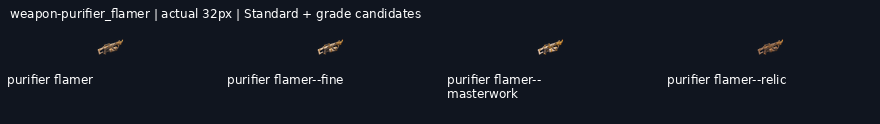
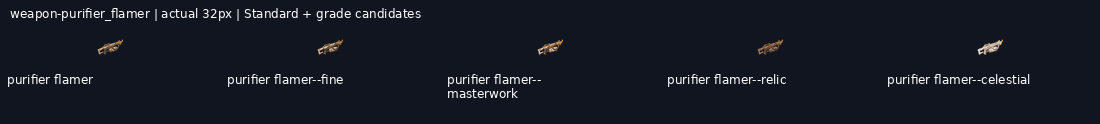
Deliver weapon-purifier_flamer--celestial review candidate with native provenance and exports

diff --git a/art/briefs/prompts-2026-11-19/PRODUCTION-STATUS.md b/art/briefs/prompts-2026-11-19/PRODUCTION-STATUS.md
@@ -1,12 +1,12 @@
 # Current sole-artist production
 
-**558/871 (64.1%) selected review candidates.** Last delivery: `weapon-purifier_flamer--relic`. Imports, exports, components, rejected attempts and archived alternatives add0. Artistic/implementation approvals remainfalse.
+**559/871 (64.2%) selected review candidates.** Last delivery: `weapon-purifier_flamer--celestial`. Imports, exports, components, rejected attempts and archived alternatives add0. Artistic/implementation approvals remainfalse.
 
 | Requested work | Selected | Total |
 | --- | ---: | ---: |
 | icons_tiles | 88 | 88 |
 | new_repaint_standards | 53 | 104 |
-| grades | 403 | 656 |
+| grades | 404 | 656 |
 | uniques | 14 | 23 |
 
 Active run sole-20261121-0109, branch art/2026-11-20-reset-continuation. Shared live ledger: https://github.com/leonpentastorm/Project-Heaven-Cry/issues/3 . Current renewed grade lane: art/_archive/gear/2026-11-21-retry-continuation/START-HERE.md. All earlier512 candidate drawings were integrated before this lane; native bytes, cleaned imports, source metadata and all prior failures preserved.

diff --git a/art/_archive/gear/2026-11-20-reset-continuation/START-HERE.md b/art/_archive/gear/2026-11-20-reset-continuation/START-HERE.md
@@ -1,6 +1,6 @@
 # Current21November continuation
 
-558/871 selected. Active lane art/_archive/gear/2026-11-21-retry-continuation/START-HERE.md, run sole-20261121-0109. User explicitly authorized renewed fictional-art attempts; all priorart/errors preserved. Read liveissue3+allcomments and remote deliveries before everyrender. RunningScript completed with original marks unchanged. All approvalsfalse;0.30 holdsremain. See PRODUCTION-STATUS.md and REMAINING-WORK.json for the latest exact count.
+559/871 selected. Active lane art/_archive/gear/2026-11-21-retry-continuation/START-HERE.md, run sole-20261121-0109. User explicitly authorized renewed fictional-art attempts; all priorart/errors preserved. Read liveissue3+allcomments and remote deliveries before everyrender. RunningScript completed with original marks unchanged. All approvalsfalse;0.30 holdsremain. See PRODUCTION-STATUS.md and REMAINING-WORK.json for the latest exact count.
 
 # Historical20November handoff
 

diff --git a/art/_archive/gear/2026-11-21-retry-continuation/HANDOFF.md b/art/_archive/gear/2026-11-21-retry-continuation/HANDOFF.md
@@ -1,13 +1,13 @@
 # Reset continuation progress
 
-Branch: `art/2026-11-20-reset-continuation`. New deliveries: 45/50.
+Branch: `art/2026-11-20-reset-continuation`. New deliveries: 46/50.
 
 Shared coordination: https://github.com/leonpentastorm/Project-Heaven-Cry/issues/3 . Read START-HERE.md before extending this queue.
 
 All new entries remain review-candidate; production_approved:false and implementation_ready:false. Exact-outline review remains pending.
 
-Ready jobs: weapon-purifier_flamer--celestial, weapon-short_bow--fine.
+Ready jobs: weapon-short_bow--fine.
 
-Pending jobs: weapon-purifier_flamer--celestial, weapon-short_bow--fine, weapon-short_bow--masterwork, weapon-short_bow--relic, weapon-short_bow--celestial.
+Pending jobs: weapon-short_bow--fine, weapon-short_bow--masterwork, weapon-short_bow--relic, weapon-short_bow--celestial.
 
 Quota state: null.
